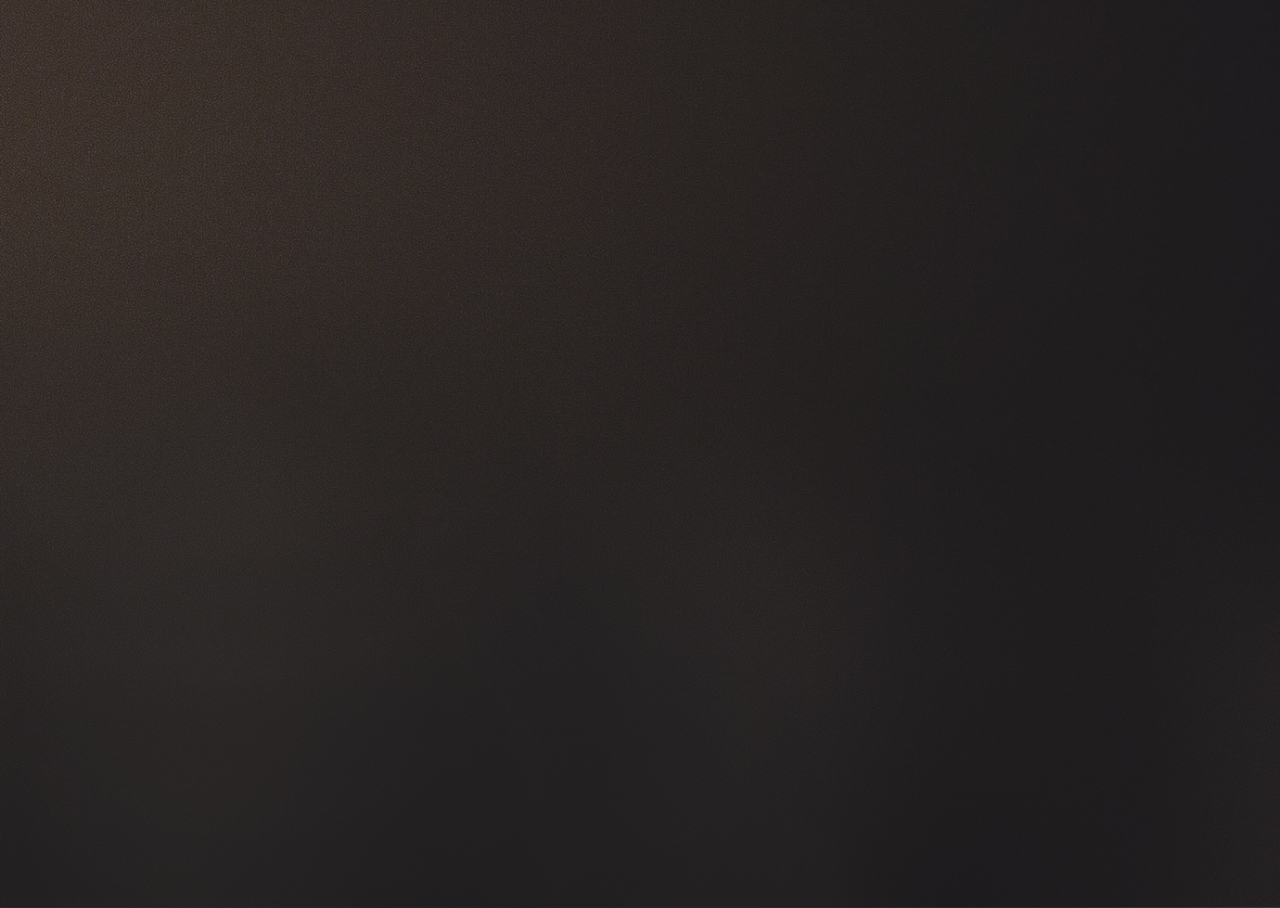
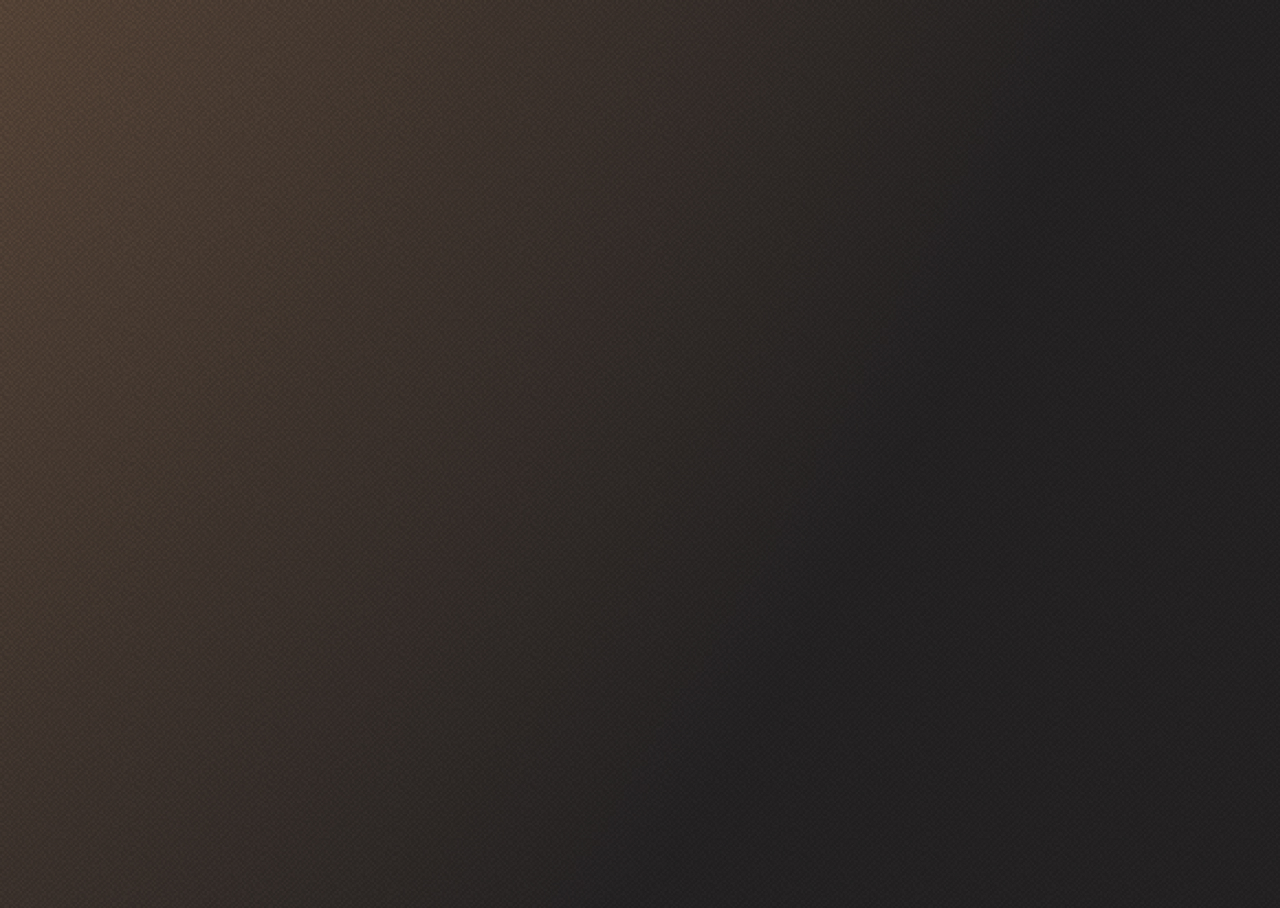
feat: add start screen

Changed region(s): [[0.0, 0.0, 0.1562, 1.0]]

diff --git a/shelter/pages/main/style.css b/shelter/pages/main/style.css
@@ -1,4 +1,13 @@
+html {
+  scroll-behavior: smooth;
+}
+
+body {
+  background: radial-gradient(100% 215.42% at 0% 0%, #5B483A 0%, #262425 100%), #211F20;
+}
+
 .container {
+  position: relative;
   max-width: 1280px;
   margin: 0 auto;
   padding: 60px 40px;
@@ -17,7 +26,6 @@
   -webkit-box-pack: justify;
       -ms-flex-pack: justify;
           justify-content: space-between;
-  background-color: #8b1482;
 }
 
 .logo {
@@ -35,6 +43,7 @@
   -webkit-box-align: end;
       -ms-flex-align: end;
           align-items: flex-end;
+  cursor: pointer;
 }
 
 .logo .logo-title {
@@ -84,6 +93,15 @@
   font-style: normal;
   font-size: 15px;
   line-height: 160%;
+  -webkit-transition: -webkit-transform 0.25s;
+  transition: -webkit-transform 0.25s;
+  transition: transform 0.25s;
+  transition: transform 0.25s, -webkit-transform 0.25s;
+}
+
+.menu .menu-line:active {
+  -webkit-transform: translateY(1px);
+          transform: translateY(1px);
 }
 
 .menu .menu-link {
@@ -110,10 +128,102 @@
 }
 
 .menu .menu-link.active, .menu .menu-link:hover::after, .menu .menu-link.active::after {
-  color: #FAFAFA;
   -webkit-transform: scaleX(1);
           transform: scaleX(1);
   -webkit-transform-origin: bottom left;
           transform-origin: bottom left;
+  -webkit-transition: color 0.5s, -webkit-transform 0.25s;
+  transition: color 0.5s, -webkit-transform 0.25s;
+  transition: transform 0.25s, color 0.5s;
+  transition: transform 0.25s, color 0.5s, -webkit-transform 0.25s;
+  color: #FAFAFA;
+}
+
+.start-screen .start-bkg {
+  position: absolute;
+  z-index: -1;
+  top: 0;
+  left: 0;
+  height: 908px;
+  width: 100%;
+  background: url("../../assets/images/start-screen-background.jpg") no-repeat center/cover;
+  -webkit-box-shadow: 0px 4px 4px rgba(0, 0, 0, 0.25);
+          box-shadow: 0px 4px 4px rgba(0, 0, 0, 0.25);
+}
+
+.start-screen .start-content {
+  padding-top: 60px;
+  display: -webkit-box;
+  display: -ms-flexbox;
+  display: flex;
+  -webkit-box-orient: horizontal;
+  -webkit-box-direction: normal;
+      -ms-flex-direction: row;
+          flex-direction: row;
+  gap: 42px;
+}
+
+.start-screen .start-wrapper {
+  margin-top: 163px;
+  width: 460px;
+  display: -webkit-box;
+  display: -ms-flexbox;
+  display: flex;
+  -webkit-box-orient: vertical;
+  -webkit-box-direction: normal;
+      -ms-flex-direction: column;
+          flex-direction: column;
+  gap: 42px;
+}
+
+.start-screen .start-wrapper .start-title {
+  width: 310px;
+  height: 114px;
+  font-family: 'Georgia';
+  font-style: normal;
+  font-size: 44px;
+  line-height: 130%;
+  color: #FFFFFF;
+}
+
+.start-screen .start-wrapper .start-text {
+  width: 460px;
+  height: 72px;
+  font-family: 'Arial';
+  font-style: normal;
+  font-size: 15px;
+  line-height: 160%;
+  color: #CDCDCD;
+}
+
+.start-screen .start-wrapper .btn {
+  width: 207px;
+  height: 52px;
+  font-family: 'Georgia';
+  font-style: normal;
+  font-size: 17px;
+  line-height: 130%;
+  letter-spacing: 0.06em;
+  color: #292929;
+  background: #F1CDB3;
+  border-radius: 100px;
+  -webkit-transition: all 0.5s;
+  transition: all 0.5s;
+}
+
+.start-screen .start-wrapper .btn:hover {
+  background: #FDDCC4;
+}
+
+.start-screen .start-wrapper .btn:active {
+  background: #e9b188;
+  -webkit-transform: translateY(1px);
+          transform: translateY(1px);
+}
+
+.start-screen .start-puppy {
+  width: 668px;
+  height: 728px;
+  background: url("../../assets/images/start-screen-puppy.png") no-repeat;
 }
 /*# sourceMappingURL=style.css.map */

diff --git a/shelter/pages/main/style.scss b/shelter/pages/main/style.scss
@@ -1,14 +1,47 @@
+html {
+  scroll-behavior: smooth;
+}
+
+body {
+  background: radial-gradient(100% 215.42% at 0% 0%, #5B483A 0%, #262425 100%), #211F20;
+}
+
 .container {
+  position: relative;
   max-width: 1280px;
   margin: 0 auto;
   padding: 60px 40px;
 }
 
 $color-primary: #F1CDB3;
+$color-primary-hover: #FDDCC4;
 $color-light-xl: #FFFFFF;
 $color-light-s: #FAFAFA;
 $color-dark-s: #CDCDCD;
+$color-dark-3xl: #292929;
 
+@mixin btn($background, $backgroun-hover) {
+  width: 207px;
+  height: 52px;
+  font-family: 'Georgia';
+  font-style: normal;
+  font-size: 17px;
+  line-height: 130%;
+  letter-spacing: 0.06em;
+  color: $color-dark-3xl;
+  background: $background;
+  border-radius: 100px;
+  transition: all 0.5s;
+
+  &:hover {
+    background: $backgroun-hover;
+  }
+
+  &:active {
+    background: darken($background, 10%);
+    transform: translateY(1px);
+  } 
+}
 
 .header {
   width: 100%;
@@ -16,7 +49,6 @@ $color-dark-s: #CDCDCD;
   display: flex;
   flex-direction: row;
   justify-content: space-between;
-  background-color: #8b1482; //////////////////temporary
 }
 
 .logo {
@@ -25,6 +57,7 @@ $color-dark-s: #CDCDCD;
   flex-direction: column;
   justify-content: space-between;
   align-items: flex-end;
+  cursor: pointer;
 
   .logo-title {
     margin: 0;
@@ -65,12 +98,17 @@ $color-dark-s: #CDCDCD;
     font-style: normal;
     font-size: 15px;
     line-height: 160%;
+    transition: transform 0.25s;
+
+    &:active {
+      transform: translateY(1px);
+    }
   }
 
   .menu-link {
     position: relative;
     color: $color-dark-s;
-
+    
     &::after {
       position: absolute;
       left: 0;
@@ -87,12 +125,77 @@ $color-dark-s: #CDCDCD;
     &.active,
     &:hover::after,
     &.active::after {
-      color: $color-light-s;
       transform: scaleX(1);
       transform-origin: bottom left;
+      transition: transform 0.25s, color 0.5s;
+      color: $color-light-s;
     }
   }
 }
 
+.start-screen {
+
+  .start-bkg{
+    position: absolute;
+    z-index: -1;
+    top: 0;
+    left: 0;
+    height: 908px;
+    width: 100%;
+    background: url('../../assets/images/start-screen-background.jpg') no-repeat center / cover;
+    box-shadow: 0px 4px 4px rgba(0, 0, 0, 0.25);
+  }
+
+  .start-content {
+    padding-top: 60px;
+    display: flex;
+    flex-direction: row;
+    gap: 42px;
+  }
+
+  .start-wrapper {
+    margin-top: 163px;
+    width: 460px;
+    display: flex;
+    flex-direction: column;
+    gap: 42px;
+
+    .start-title {
+      width: 310px;
+      height: 114px;
+      font-family: 'Georgia';
+      font-style: normal;
+      font-size: 44px;
+      line-height: 130%;
+      color: $color-light-xl;
+    }
+
+    .start-text {
+      width: 460px;
+      height: 72px;
+      font-family: 'Arial';
+      font-style: normal;
+      font-size: 15px;
+      line-height: 160%;
+      color: $color-dark-s;
+    }
+
+    .btn {
+      @include btn($color-primary, $color-primary-hover);
+    }
+  }
+
+  .start-puppy {
+    width: 668px;
+    height: 728px;
+    background: url('../../assets/images/start-screen-puppy.png') no-repeat;
+  }
+
+}
 
 
+
+
+
+
+//background: #F1CDB3;

diff --git a/shelter/pages/main/index.html b/shelter/pages/main/index.html
@@ -13,10 +13,12 @@
 <body>
   <div class="container">
     <header class="header">
-      <div class="logo">
-        <h1 class="logo-title">Cozy House</h1>
-        <p class="logo-subtitle">Shelter for pets in Boston</p>
-      </div>
+      <a href=".">
+        <div class="logo">
+          <h1 class="logo-title">Cozy House</h1>
+          <p class="logo-subtitle">Shelter for pets in Boston</p>
+        </div>
+      </a>
       <nav class="menu">
         <ul class="menu-list">
           <li class="menu-line"><a href="#top" class="menu-link active">About the shelter</a></li>
@@ -26,6 +28,22 @@
         </ul>
       </nav>
     </header>
+    <main>
+      <section class="start-screen">
+        <div class="start-bkg"></div>
+        <div class="start-content">
+          <div class="start-wrapper">
+            <h2 class="start-title">Not only people need a house</h2>
+            <p class="start-text">
+              We offer to give a chance to a little and nice puppy with an extremely wide and open heart. He or she will love you more than anybody else in the world, you will see!
+            </p>
+            <button class="btn" onclick="location.href='#friends'">Make a friend</button>
+          </div>
+          <div class="start-puppy"></div>
+        </div>
+      </section>
+      
+    </main>
   </div>
 
   <script src="./index.js"></script>
